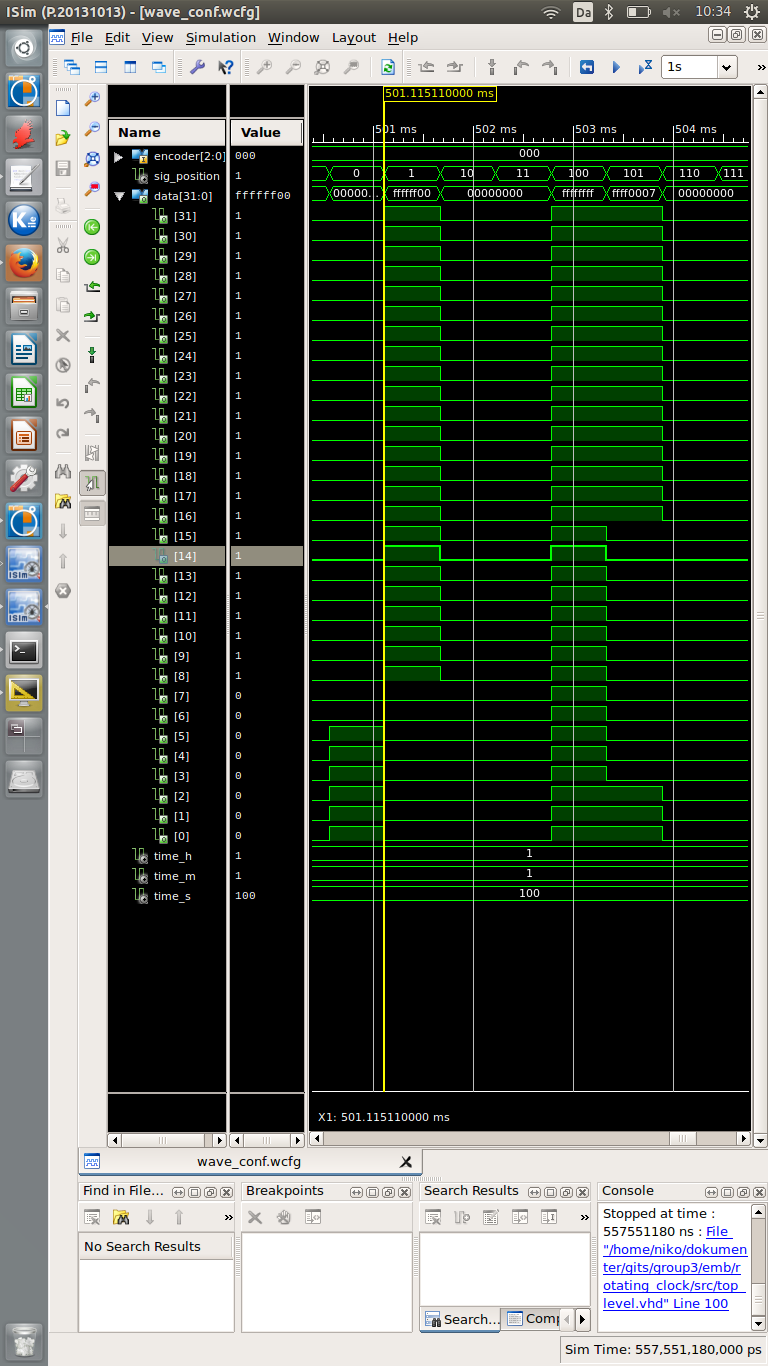
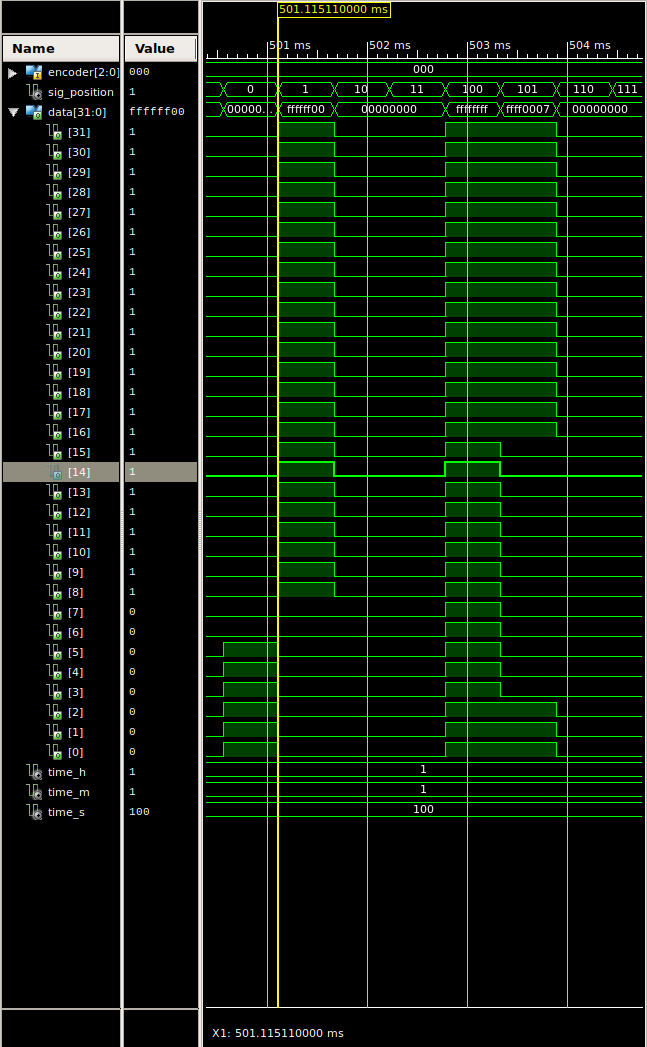
waveform

diff --git a/emb/rotating_clock/report/src/code.tex b/emb/rotating_clock/report/src/code.tex
@@ -6,3 +6,16 @@ An overview of how the modules are put together and how they communicate can be 
 
 The Encoder block is not a VHDL module.
 It is to show the input of 3 wires, from the hall sensors.
+
+Since the implementation is could not be tested on the real system, it is tested in simulation.
+In figure \ref{fig:simulation_wave} can the waveform for the system be seen.
+The data is the bus which is sent to the led drivers.
+It can be seen that the system responds to the position and sends data out.
+The time is set to 1 minute and 4 seconds over 1 so the hands does not overlap.
+
+\begin{figure}
+ \centering
+ \includegraphics[scale=0.7]{img/waveform}
+ \caption[Waveform of the simulation.]{Waveform of the simulation. The data pins signify the hands on the watch.}
+ \label{fig:simulation_wave}
+\end{figure}
